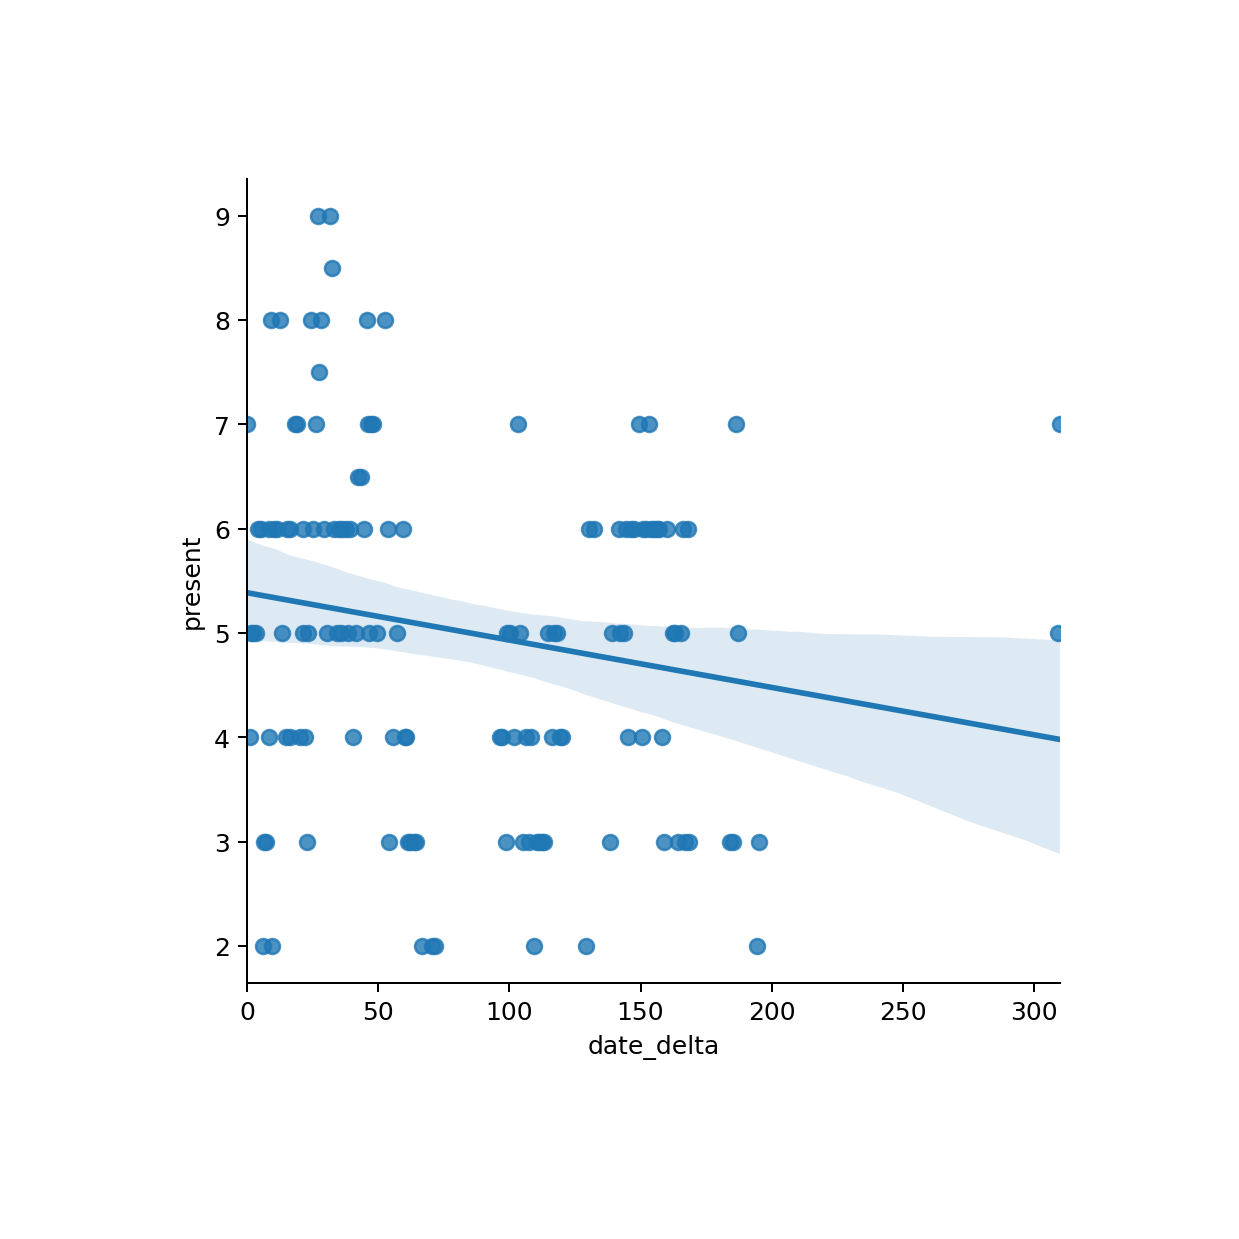
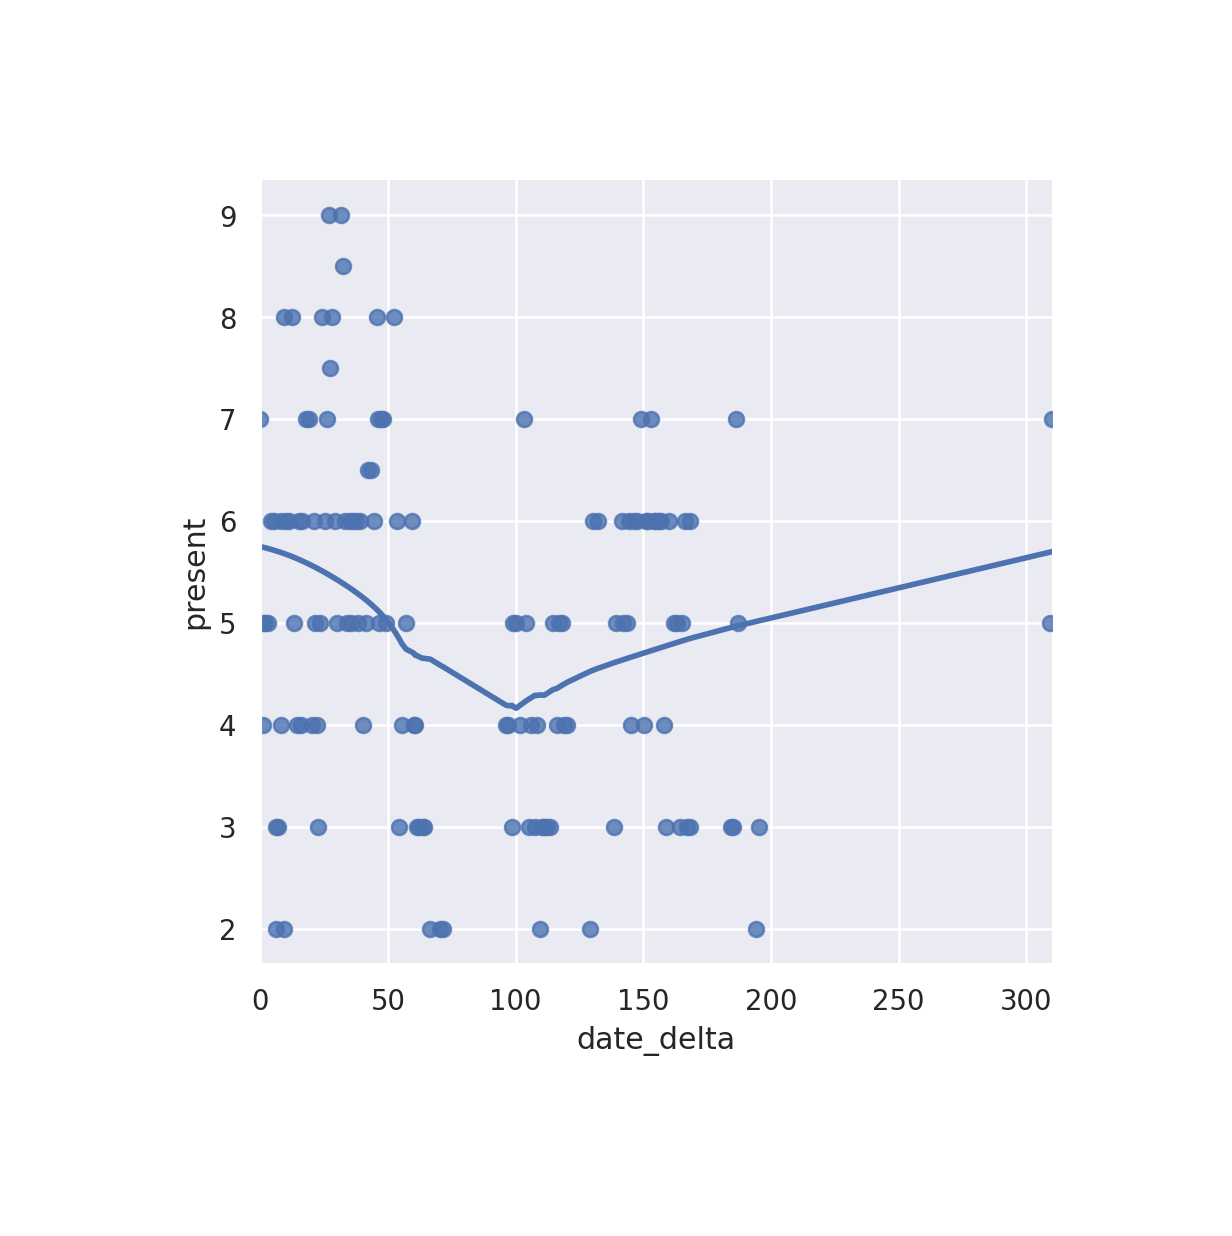
Changed regression to a locally weighted linear regression (lowess)

diff --git a/gamithra.py b/gamithra.py
@@ -1,6 +1,7 @@
 from glob import glob
 from datetime import datetime
 import yaml
+import os
 
 import pandas as pd
 import matplotlib.pyplot as plt
@@ -35,14 +36,17 @@ df = pd.DataFrame.from_records(data, exclude=["anxiety", "chaos", "depression", 
 df['date_delta'] = (df['time'] - df['time'].min()) / np.timedelta64(1,'D')
 df = df.set_index("time")
 df.sort_index(inplace=True)
-# df.to_csv("gamitra.csv")
+# df.to_csv("gamithra.csv")
 
+# %%
+os.chdir("results")
 # %%
 features = ['self-worth', 'future', 'past', 'belonging', 'independence', 'wellbeing', 'generosity', 'focus', 'gratitude', 'health', 'present', 'gratification']
 for key in features:
-    sns.lmplot(x='date_delta', y=key, data=df )
+    sns.lmplot(x='date_delta', y=key, data=df, lowess=True)
     # plt.show()
     plt.savefig(key + ".png", dpi=180, pad_inches=1, bbox_inches="tight")
+
 
 # %%
 fig, axs = plt.subplots(4,3, sharex=True, figsize=(12, 10))
